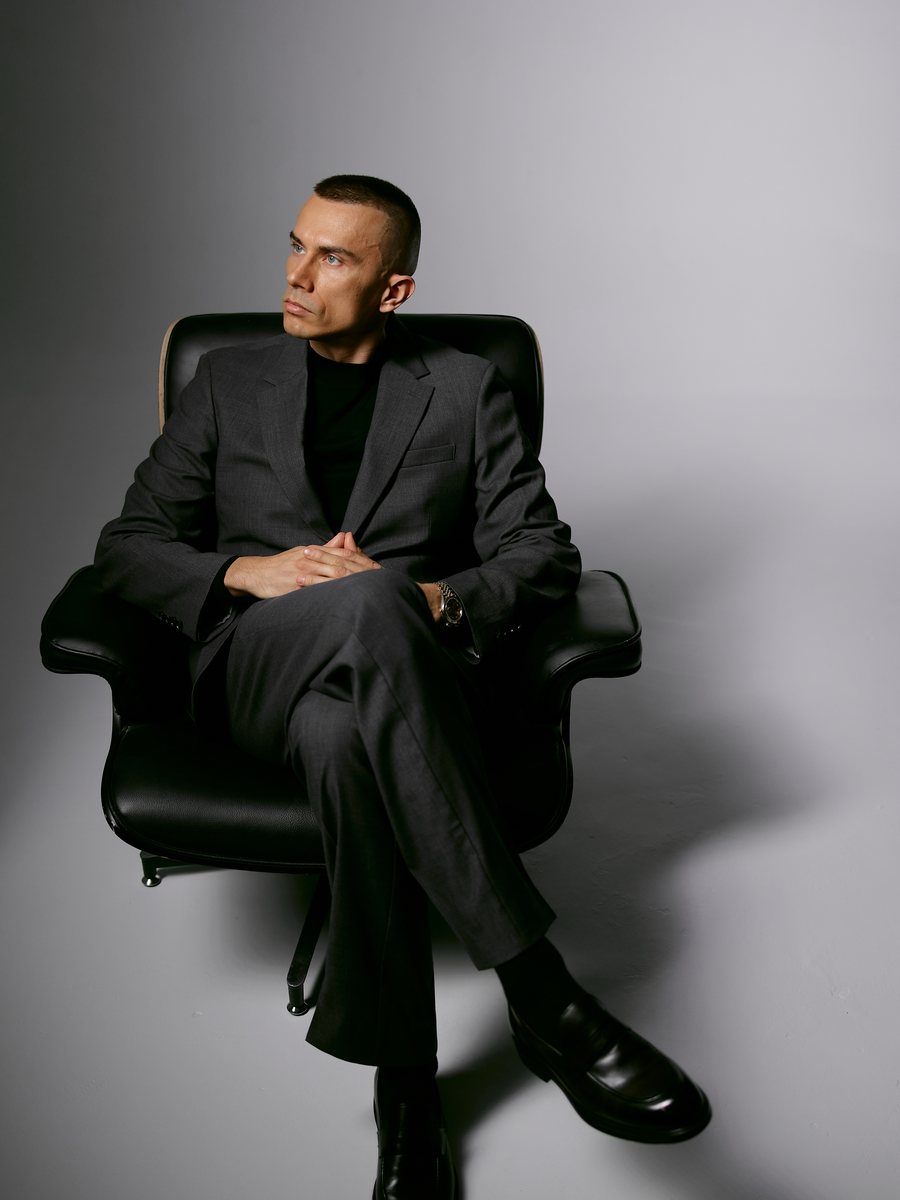
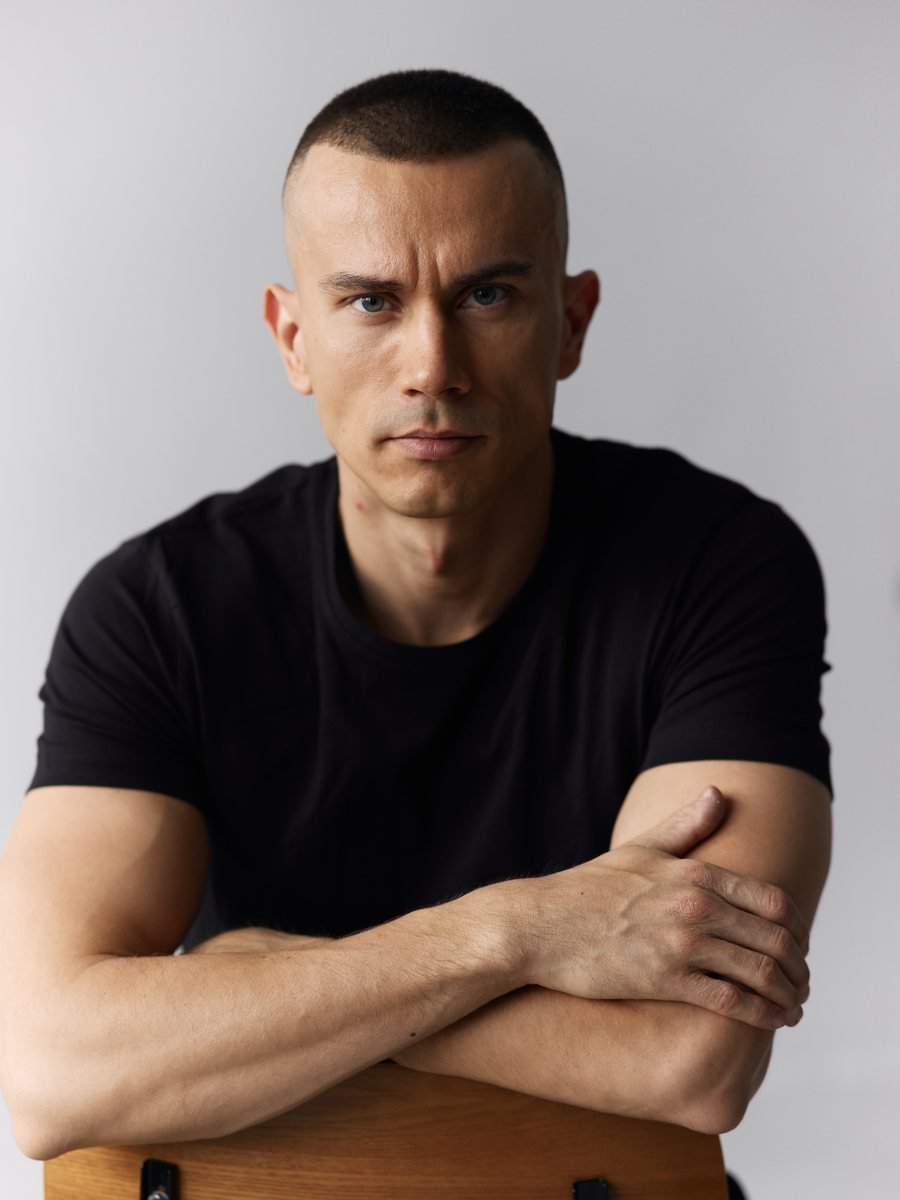
История школы: timeline 2023→2026 + камера-фейсинг портрет основателя
- Блок «2026» переделан в полноценный timeline «Как рождалась
  СВОБОДА»: 4 этапа по годам (2023 начало → 2024 методология →
  2025 проверка на кейсах → 2026 запуск), ключевая мысль каждого
  года выделена красным, 2026 — акцентная карточка
- Фото основателя заменено на студийный портрет, где Инсар смотрит
  в камеру (по ТЗ — для блока основателя)

https://claude.ai/code/session_0132NwRrqbasGWtWcV7uXYb9

diff --git a/index.html b/index.html
@@ -326,23 +326,56 @@
       </div>
     </section>
 
-    <!-- ======================= Мы строим школу прямо сейчас ======================= -->
-    <section class="section section--ink">
+    <!-- ======================= История школы (timeline) ======================= -->
+    <section class="section section--ink" id="history">
       <div class="container">
         <div class="section-head reveal">
-          <span class="live-badge"><span class="live-dot" aria-hidden="true"></span>Прямо сейчас</span>
-          <h2 class="h2" style="margin-top: 20px;">Мы строим СВОБОДУ в&nbsp;реальном времени</h2>
-          <p style="color: rgba(255,255,255,0.65); margin-top: 16px; max-width: 620px;">Школа предпринимательства не появляется за один день. Мы строим ее открыто — и вы наблюдаете рождение большого проекта.</p>
+          <span class="live-badge"><span class="live-dot" aria-hidden="true"></span>История школы</span>
+          <h2 class="h2" style="margin-top: 20px;">Как рождалась СВОБОДА</h2>
+          <p style="color: rgba(255,255,255,0.65); margin-top: 16px; max-width: 620px;">Школа выросла не из идеи, а из практики: сотен разборов, реальных бизнесов и повторяющихся ограничений роста.</p>
         </div>
-        <div class="build-year reveal" aria-hidden="true">2026</div>
-        <ul class="build-list reveal">
-          <li class="build-item"><span class="build-check" aria-hidden="true"></span>Запущен YouTube-канал</li>
-          <li class="build-item"><span class="build-check" aria-hidden="true"></span>Разрабатываются программы школы</li>
-          <li class="build-item"><span class="build-check" aria-hidden="true"></span>Создается книга «Предпринимательство — это профессия»</li>
-          <li class="build-item"><span class="build-check" aria-hidden="true"></span>Формируется методология развития предпринимательских навыков</li>
-          <li class="build-item"><span class="build-check" aria-hidden="true"></span>Проводятся выступления и разборы предпринимателей</li>
-          <li class="build-item"><span class="build-check" aria-hidden="true"></span>Создается сообщество предпринимателей</li>
-        </ul>
+        <div class="timeline reveal">
+          <div class="tl-item">
+            <span class="tl-year">2023</span>
+            <h3>Начало пути</h3>
+            <ul>
+              <li>Активная работа с предпринимателями и бизнесами</li>
+              <li>Накопление опыта разборов</li>
+              <li>Наблюдение за повторяющимися ограничениями роста</li>
+              <li class="tl-key">Идея: бизнес растет до уровня предпринимателя</li>
+            </ul>
+          </div>
+          <div class="tl-item">
+            <span class="tl-year">2024</span>
+            <h3>Методология</h3>
+            <ul>
+              <li>Систематизация опыта</li>
+              <li>Появилась структура навыков предпринимателя</li>
+              <li>Первые контуры методологии</li>
+              <li class="tl-key">Проблемы бизнеса — продолжение ограничений собственника</li>
+            </ul>
+          </div>
+          <div class="tl-item">
+            <span class="tl-year">2025</span>
+            <h3>Проверка на кейсах</h3>
+            <ul>
+              <li>Тестирование подхода на реальных компаниях</li>
+              <li>Уточнение программ</li>
+              <li>Рост клиентов от ×3 до ×13</li>
+              <li class="tl-key">Концепция: предпринимательство — это профессия</li>
+            </ul>
+          </div>
+          <div class="tl-item tl-item--now">
+            <span class="tl-year">2026</span>
+            <h3>Запуск школы</h3>
+            <ul>
+              <li>СВОБОДА как публичный проект и сайт</li>
+              <li>YouTube, подкасты, методология</li>
+              <li>Программы и сообщество</li>
+              <li class="tl-key">Создается книга «Предпринимательство — это профессия»</li>
+            </ul>
+          </div>
+        </div>
       </div>
     </section>
 

diff --git a/css/style.css b/css/style.css
@@ -3483,3 +3483,101 @@ main .section-head--center::before {
   color: var(--color-ink);
   border-color: #fff;
 }
+
+/* ============================================================
+   История школы — горизонтальный timeline 2023→2026
+   ============================================================ */
+
+.timeline {
+  display: grid;
+  grid-template-columns: repeat(4, 1fr);
+  gap: 1px;
+  background: rgba(255, 255, 255, 0.1);
+  border: 1px solid rgba(255, 255, 255, 0.1);
+  border-radius: var(--radius);
+  overflow: hidden;
+}
+
+.tl-item {
+  position: relative;
+  background: var(--color-ink);
+  padding: 32px 26px 30px;
+}
+
+.tl-item--now {
+  background: var(--color-ink-2);
+}
+
+.tl-item::before {
+  content: "";
+  position: absolute;
+  top: 0; left: 0; right: 0;
+  height: 3px;
+  background: rgba(255, 255, 255, 0.14);
+}
+
+.tl-item--now::before {
+  background: var(--color-red);
+}
+
+.tl-year {
+  display: block;
+  font-size: clamp(2rem, 3.4vw, 3rem);
+  font-weight: 800;
+  letter-spacing: -0.02em;
+  line-height: 1;
+  color: #fff;
+}
+
+.tl-item--now .tl-year {
+  color: var(--color-red);
+}
+
+.tl-item h3 {
+  margin: 14px 0 16px;
+  font-size: 1.1rem;
+  color: #fff;
+}
+
+.tl-item ul {
+  display: grid;
+  gap: 10px;
+}
+
+.tl-item li {
+  position: relative;
+  padding-left: 18px;
+  font-size: 0.9rem;
+  line-height: 1.45;
+  color: rgba(255, 255, 255, 0.6);
+}
+
+.tl-item li::before {
+  content: "";
+  position: absolute;
+  left: 0; top: 0.55em;
+  width: 6px; height: 6px;
+  border-radius: 50%;
+  background: rgba(255, 255, 255, 0.3);
+}
+
+.tl-key {
+  color: #fff !important;
+  font-weight: 600;
+}
+
+.tl-key::before {
+  background: var(--color-red) !important;
+}
+
+@media (max-width: 900px) {
+  .timeline {
+    grid-template-columns: repeat(2, 1fr);
+  }
+}
+
+@media (max-width: 520px) {
+  .timeline {
+    grid-template-columns: 1fr;
+  }
+}
